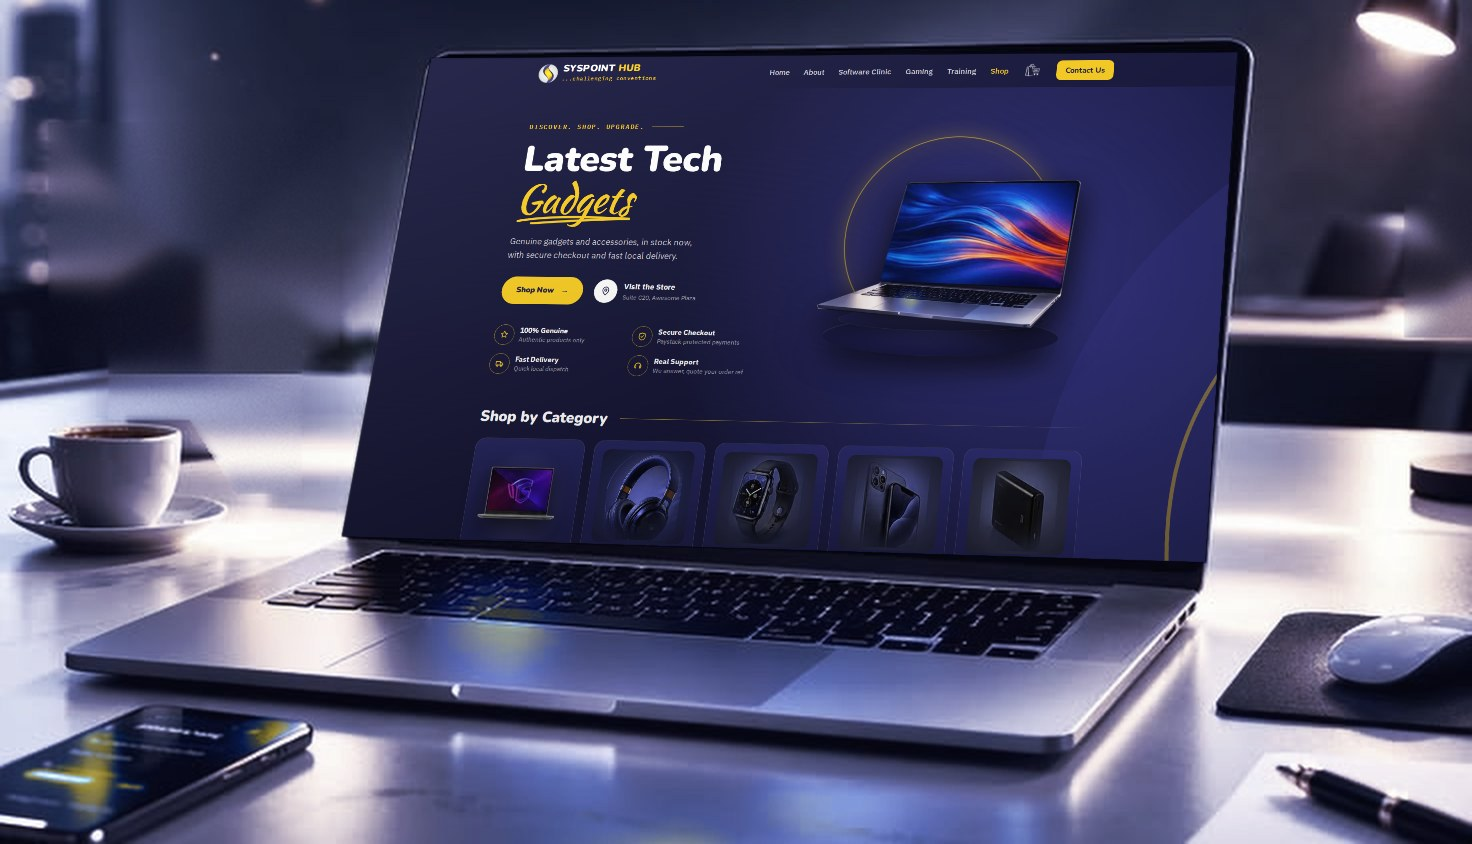
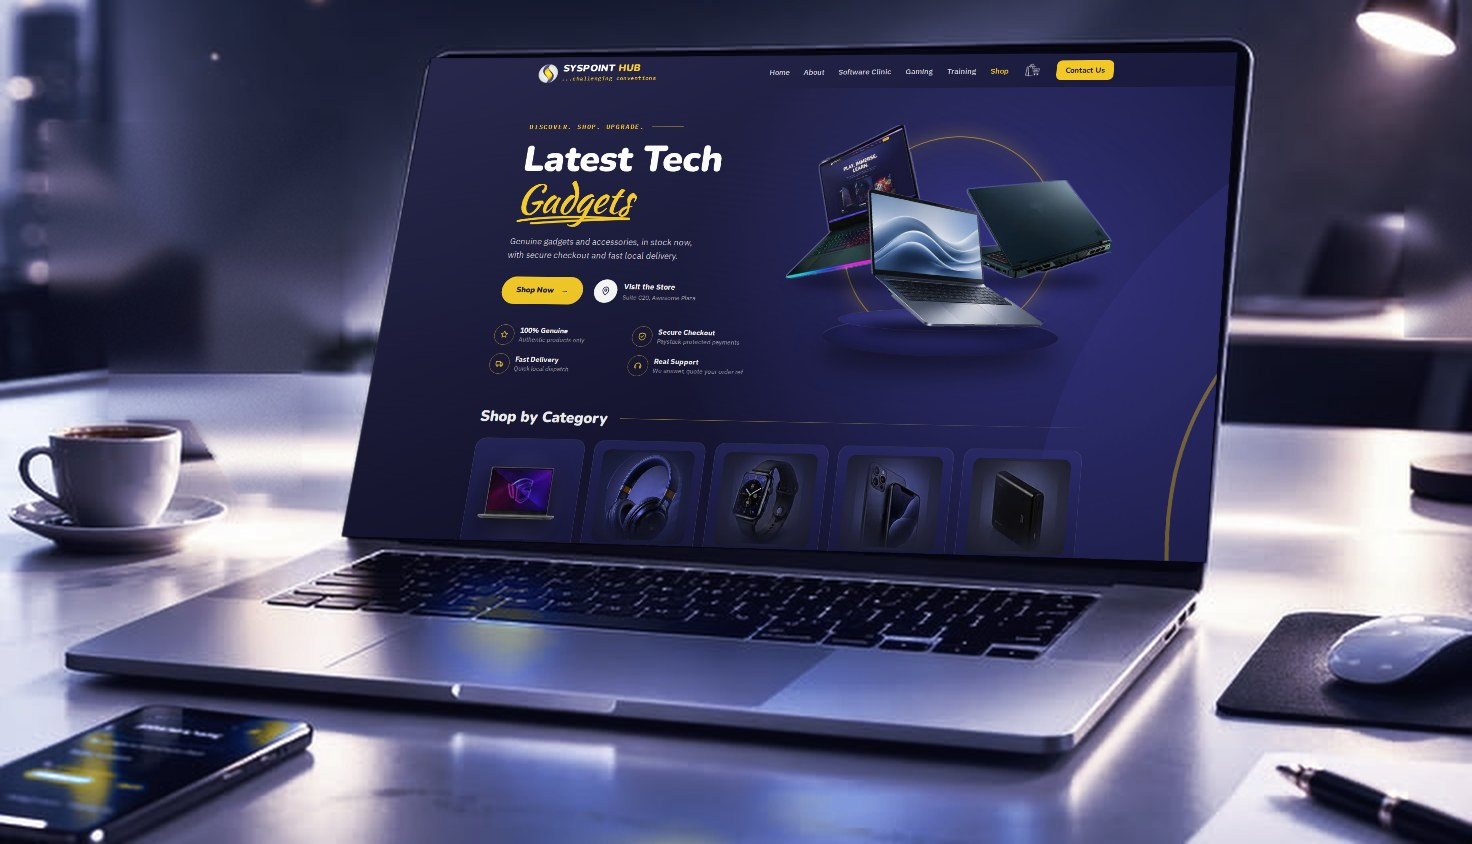
Shop hero: three-laptop display from the supplied samples
The silver laptop (front), an RGB gaming laptop showing our own Gaming page
(back left) and a dark gaming laptop seen from behind (back right), each
cut from its sample with GrabCut seeded by a traced outline, lit with a
soft indigo rim on the back two and grounded with oval contact shadows.
Third-party marks removed: the MSI shields (screen replaced with our
Gaming page, chin badge painted out) and the maker's logo and wordmarks on
the dark lid; the FullOffice watermark was outside the cut. 96 KB WebP.
Home hero's Shop screen re-shot to match.

Claude-Session: https://claude.ai/code/session_01V4AdRnaABNZnaBTZbbiHrp

Changed region(s): [[0.5312, 0.154, 0.75, 0.4313]]

diff --git a/public/assets/css/style.css b/public/assets/css/style.css
@@ -1449,8 +1449,8 @@ main:has(.page-hero) .page-hero + .section { padding-top: 64px; }
 .shop-hero-ring { position: absolute; left: 50%; top: 46%; width: min(400px, 82%); aspect-ratio: 1; transform: translate(-50%, -50%); border-radius: 50%; border: 2px solid rgba(247, 203, 30, 0.55); box-shadow: 0 0 40px rgba(247, 203, 30, 0.25), inset 0 0 60px rgba(247, 203, 30, 0.12); background: radial-gradient(circle, rgba(52, 52, 138, 0.55), transparent 70%); }
 .shop-hero-podium { position: absolute; left: 50%; bottom: 34px; width: 78%; height: 74px; transform: translateX(-50%); border-radius: 50%; background: radial-gradient(ellipse at 50% 30%, #3A3A92 0%, #1C1C55 55%, #0E0E2A 100%); box-shadow: 0 30px 50px rgba(0, 0, 0, 0.55), inset 0 2px 0 rgba(255, 255, 255, 0.12); }
 .shop-hero-podium::before { content: ""; position: absolute; left: 6%; right: 6%; top: -14px; height: 40px; border-radius: 50%; background: radial-gradient(ellipse at 50% 40%, #4A4AA6, #26266E 70%); box-shadow: 0 0 0 1px rgba(247, 203, 30, 0.25); }
-.shop-hero-product { position: absolute; left: 50%; bottom: 84px; width: 84%; transform: translateX(-50%); animation: shop-float 6s ease-in-out infinite; }
-.shop-hero-product picture, .shop-hero-product img { display: block; width: 100%; height: auto; filter: drop-shadow(0 26px 30px rgba(0, 0, 0, 0.55)); }
+.shop-hero-product { position: absolute; left: 50%; bottom: 40px; width: 112%; transform: translateX(-50%); animation: shop-float 6s ease-in-out infinite; }
+.shop-hero-product picture, .shop-hero-product img { display: block; width: 100%; height: auto; }
 @keyframes shop-float { 0%, 100% { transform: translate(-50%, 0); } 50% { transform: translate(-50%, -10px); } }
 
 .shop-section-head { display: flex; align-items: center; gap: 24px; margin-bottom: 24px; }
@@ -1488,7 +1488,7 @@ main:has(.page-hero) .page-hero + .section { padding-top: 64px; }
     .shop-hero { padding-top: 40px; }
     .shop-hero-stage { height: 280px; }
     .shop-hero-podium { height: 54px; bottom: 20px; }
-    .shop-hero-product { bottom: 58px; }
+    .shop-hero-product { bottom: 30px; width: 104%; }
     .shop-promo { grid-template-columns: 1fr; }
     .shop-promo-art { min-height: 200px; }
     .shop-promo-art img { -webkit-mask-image: linear-gradient(180deg, #000 55%, transparent 100%); mask-image: linear-gradient(180deg, #000 55%, transparent 100%); }

diff --git a/app/site_content.php b/app/site_content.php
@@ -140,7 +140,7 @@ function site_content(): array
             'shop.hero_title_prefix' => $f('Hero headline (white)', 'Latest Tech', 'textarea', 'Each line is a line of the headline; the gold script word follows the last line.'),
             'shop.hero_title_highlight' => $f('Hero headline (gold script word)', 'Gadgets'),
             'shop.hero_subtitle' => $f('Hero text', 'Genuine gadgets and accessories, in stock now, with secure checkout and fast local delivery.', 'textarea'),
-            'shop.hero_image' => $f('Hero picture', 'assets/img/shop/hero-laptop.png', 'image', 'Best as a product photo with a transparent background (PNG), about 720 × 440.'),
+            'shop.hero_image' => $f('Hero picture', 'assets/img/shop/hero-lineup.png', 'image', 'Best as a product photo with a transparent background (PNG), about 1100 × 760.'),
             'shop.btn_primary' => $f('Hero main button', 'Shop Now'),
             'shop.btn_secondary' => $f('Hero second button', 'Visit the Store'),
             'shop.repair_title' => $f('Category cards — repairs card title', 'Repairs & Upgrades'),

diff --git a/app/views/pages/shop.php b/app/views/pages/shop.php
@@ -62,7 +62,7 @@ $promoHref = preg_match('#^https?://#i', $promoUrl) ? $promoUrl : path(ltrim($pr
             <span class="shop-hero-ring" aria-hidden="true"></span>
             <span class="shop-hero-podium" aria-hidden="true"></span>
             <div class="shop-hero-product">
-                <?= site_picture('shop.hero_image', 'A slim laptop with a colourful wave wallpaper on its screen', ['width' => 900, 'height' => 541, 'fetchpriority' => 'high']) ?>
+                <?= site_picture('shop.hero_image', 'Three laptops on display: a slim silver laptop in front, a gaming laptop showing the Syspoint gaming page and a dark gaming laptop behind', ['width' => 1100, 'height' => 761, 'fetchpriority' => 'high']) ?>
             </div>
         </div>
     </div>
